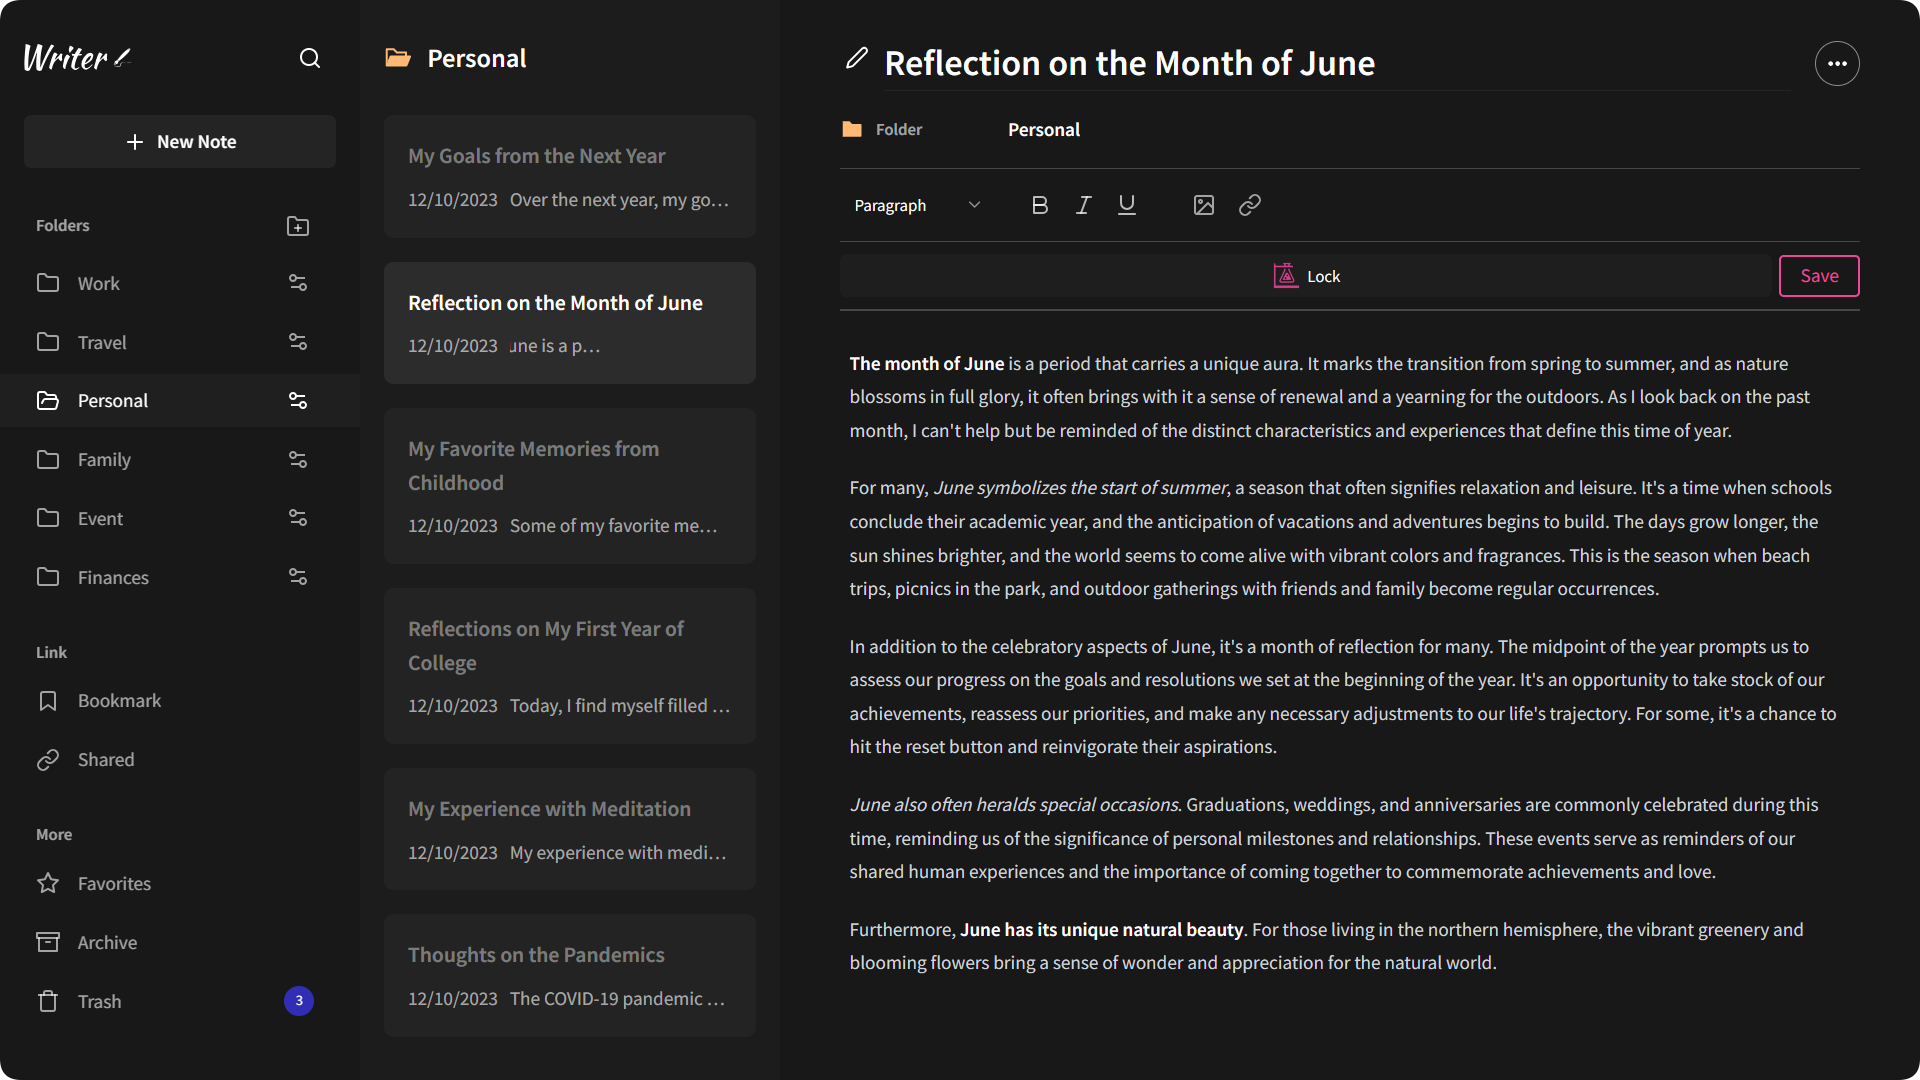
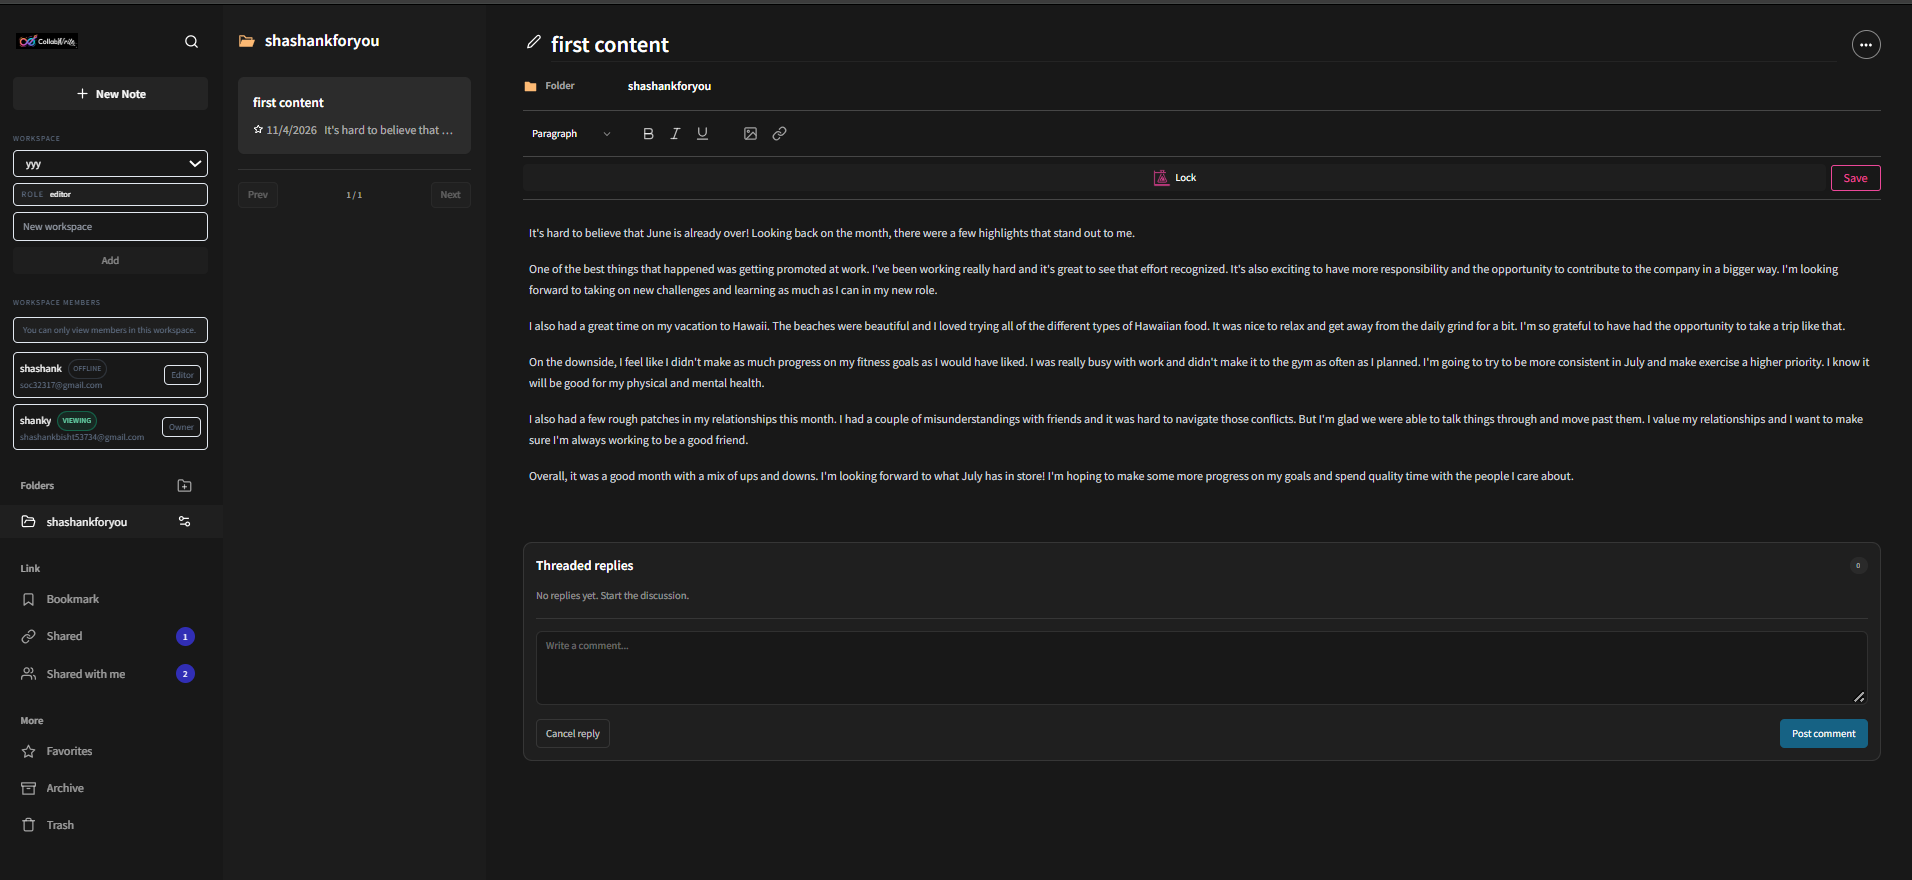
fdf

diff --git a/Client/src/components/sidebar/workspaceMembers.js b/Client/src/components/sidebar/workspaceMembers.js
@@ -2,15 +2,25 @@ import React, { useCallback, useContext, useEffect, useRef, useState } from 'rea
 import { useGlobalContext } from '../../api/useGlobalContext'
 import { Button } from '../ui/button'
 
+const createSessionId = () => {
+  if (crypto?.randomUUID) return crypto.randomUUID()
+
+  return 'xxxxxxxx-xxxx-4xxx-yxxx-xxxxxxxxxxxx'.replace(/[xy]/g, (char) => {
+    const random = Math.random() * 16 | 0
+    const value = char === 'x' ? random : (random & 0x3) | 0x8
+    return value.toString(16)
+  })
+}
+
 const API = {
   async list(workspaceId) {
-    const res = await fetch(`http://localhost:9000/api/workspaces/${workspaceId}/members`, {
+    const res = await fetch(`/api/workspaces/${workspaceId}/members`, {
       credentials: 'include',
     })
     return res.ok ? res.json() : []
   },
   async add(workspaceId, user, role) {
-    const res = await fetch(`http://localhost:9000/api/workspaces/${workspaceId}/members`, {
+    const res = await fetch(`/api/workspaces/${workspaceId}/members`, {
       method: 'POST',
       credentials: 'include',
       headers: { 'Content-Type': 'application/json' },
@@ -19,7 +29,7 @@ const API = {
     return res
   },
   async update(workspaceId, userId, role) {
-    const res = await fetch(`http://localhost:9000/api/workspaces/${workspaceId}/members/${userId}`, {
+    const res = await fetch(`/api/workspaces/${workspaceId}/members/${userId}`, {
       method: 'PUT',
       credentials: 'include',
       headers: { 'Content-Type': 'application/json' },
@@ -28,14 +38,14 @@ const API = {
     return res
   },
   async remove(workspaceId, userId) {
-    const res = await fetch(`http://localhost:9000/api/workspaces/${workspaceId}/members/${userId}`, {
+    const res = await fetch(`/api/workspaces/${workspaceId}/members/${userId}`, {
       method: 'DELETE',
       credentials: 'include',
     })
     return res
   },
   async presence(workspaceId, status, sessionId) {
-    const res = await fetch(`http://localhost:9000/api/workspaces/${workspaceId}/presence`, {
+    const res = await fetch(`/api/workspaces/${workspaceId}/presence`, {
       method: 'PUT',
       credentials: 'include',
       headers: { 'Content-Type': 'application/json' },
@@ -44,13 +54,13 @@ const API = {
     return res
   },
   async getPresence(workspaceId) {
-    const res = await fetch(`http://localhost:9000/api/workspaces/${workspaceId}/presence`, {
+    const res = await fetch(`/api/workspaces/${workspaceId}/presence`, {
       credentials: 'include',
     })
     return res.ok ? res.json() : []
   },
   async clearPresence(workspaceId, sessionId) {
-    await fetch(`http://localhost:9000/api/workspaces/${workspaceId}/presence`, {
+    await fetch(`/api/workspaces/${workspaceId}/presence`, {
       method: 'DELETE',
       credentials: 'include',
       headers: { 'Content-Type': 'application/json' },
@@ -88,26 +98,36 @@ function WorkspaceMembers() {
     if (!selectedWorkspaceId) return
 
     const asyncRefreshPresence = async () => {
-      const sessionId = crypto.randomUUID?.() || `${Date.now()}-${Math.random()}`
-      sessionIdRef.current = sessionId
-      await API.presence(selectedWorkspaceId, 'viewing', sessionId)
-      const data = await API.getPresence(selectedWorkspaceId)
-      setPresence(data)
+      try {
+        const sessionId = createSessionId()
+        sessionIdRef.current = sessionId
+        await API.presence(selectedWorkspaceId, 'viewing', sessionId)
+        const data = await API.getPresence(selectedWorkspaceId)
+        setPresence(Array.isArray(data) ? data : [])
+      } catch (error) {
+        setPresence([])
+      }
     }
 
     asyncRefreshPresence()
     const interval = setInterval(async () => {
       if (!selectedWorkspaceId || !sessionIdRef.current) return
-      await API.presence(selectedWorkspaceId, 'viewing', sessionIdRef.current)
-      const data = await API.getPresence(selectedWorkspaceId)
-      setPresence(data)
+
+      try {
+        await API.presence(selectedWorkspaceId, 'viewing', sessionIdRef.current)
+        const data = await API.getPresence(selectedWorkspaceId)
+        setPresence(Array.isArray(data) ? data : [])
+      } catch (error) {
+        setPresence([])
+      }
     }, 5000)
 
     return () => {
       clearInterval(interval)
       if (selectedWorkspaceId && sessionIdRef.current) {
-        API.clearPresence(selectedWorkspaceId, sessionIdRef.current)
+        API.clearPresence(selectedWorkspaceId, sessionIdRef.current).catch(() => {})
       }
+      sessionIdRef.current = null
     }
   }, [selectedWorkspaceId])
 

diff --git a/Client/src/components/noteEditor/sharedNotePresence.js b/Client/src/components/noteEditor/sharedNotePresence.js
@@ -25,6 +25,16 @@ export const useSharedNoteEditing = (isEditable) => {
   return { isEditing, markEditing }
 }
 
+const createSessionId = () => {
+  if (crypto?.randomUUID) return crypto.randomUUID()
+
+  return 'xxxxxxxx-xxxx-4xxx-yxxx-xxxxxxxxxxxx'.replace(/[xy]/g, (char) => {
+    const random = Math.random() * 16 | 0
+    const value = char === 'x' ? random : (random & 0x3) | 0x8
+    return value.toString(16)
+  })
+}
+
 const SharedNotePresence = ({ shareId, status, participantsOverride = [] }) => {
   const [participants, setParticipants] = useState(participantsOverride)
   const [hasError, setHasError] = useState(false)
@@ -40,7 +50,7 @@ const SharedNotePresence = ({ shareId, status, participantsOverride = [] }) => {
 
     let isMounted = true
     let isRefreshing = false
-    const sessionId = uuidv4()
+    const sessionId = createSessionId()
 
     const refreshPresence = async () => {
       if (isRefreshing) return
@@ -54,8 +64,10 @@ const SharedNotePresence = ({ shareId, status, participantsOverride = [] }) => {
           setHasError(false)
         }
       } catch (error) {
-        console.error('Unable to refresh shared note presence.', error)
-        if (isMounted) setHasError(true)
+        if (isMounted) {
+          setParticipants([])
+          setHasError(true)
+        }
       } finally {
         isRefreshing = false
       }
@@ -67,9 +79,7 @@ const SharedNotePresence = ({ shareId, status, participantsOverride = [] }) => {
     return () => {
       isMounted = false
       window.clearInterval(interval)
-      xDeleteSharePresence(shareId, sessionId).catch((error) => {
-        console.error('Unable to remove shared note presence.', error)
-      })
+      xDeleteSharePresence(shareId, sessionId).catch(() => {})
     }
   }, [shareId])
 
